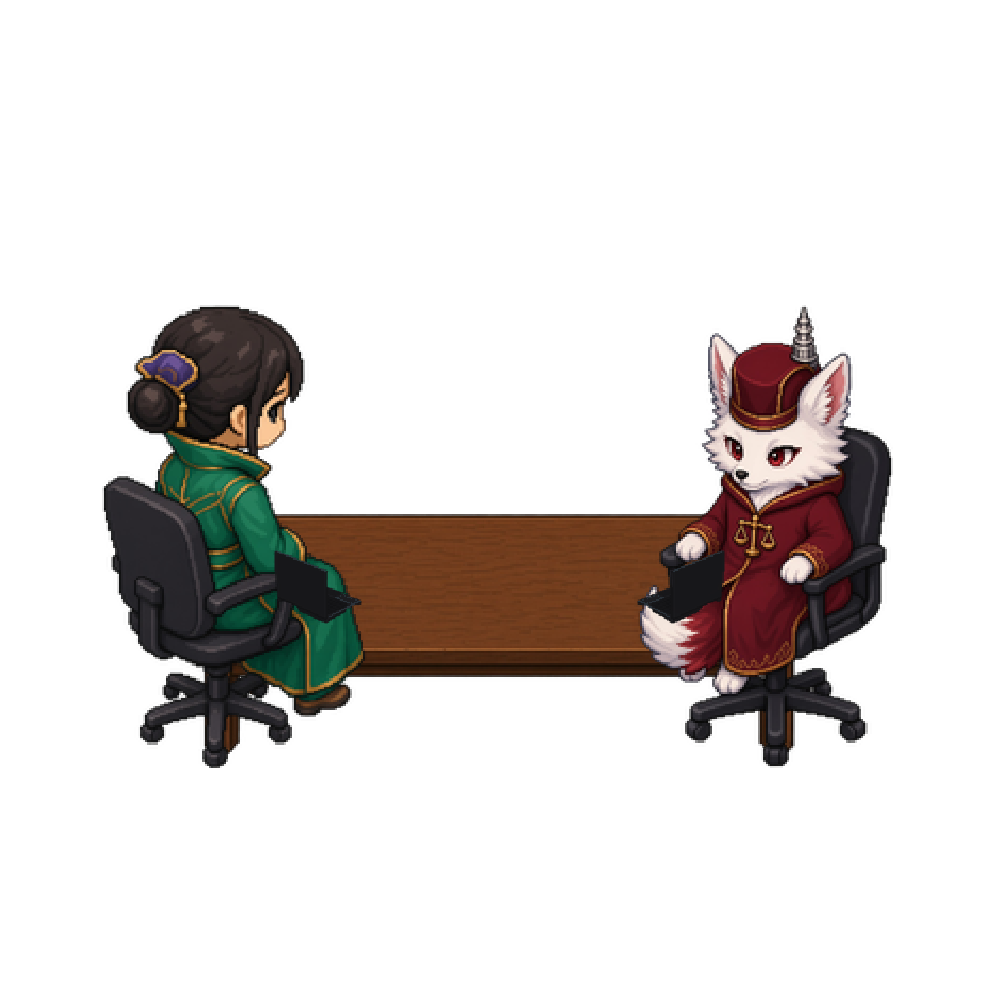
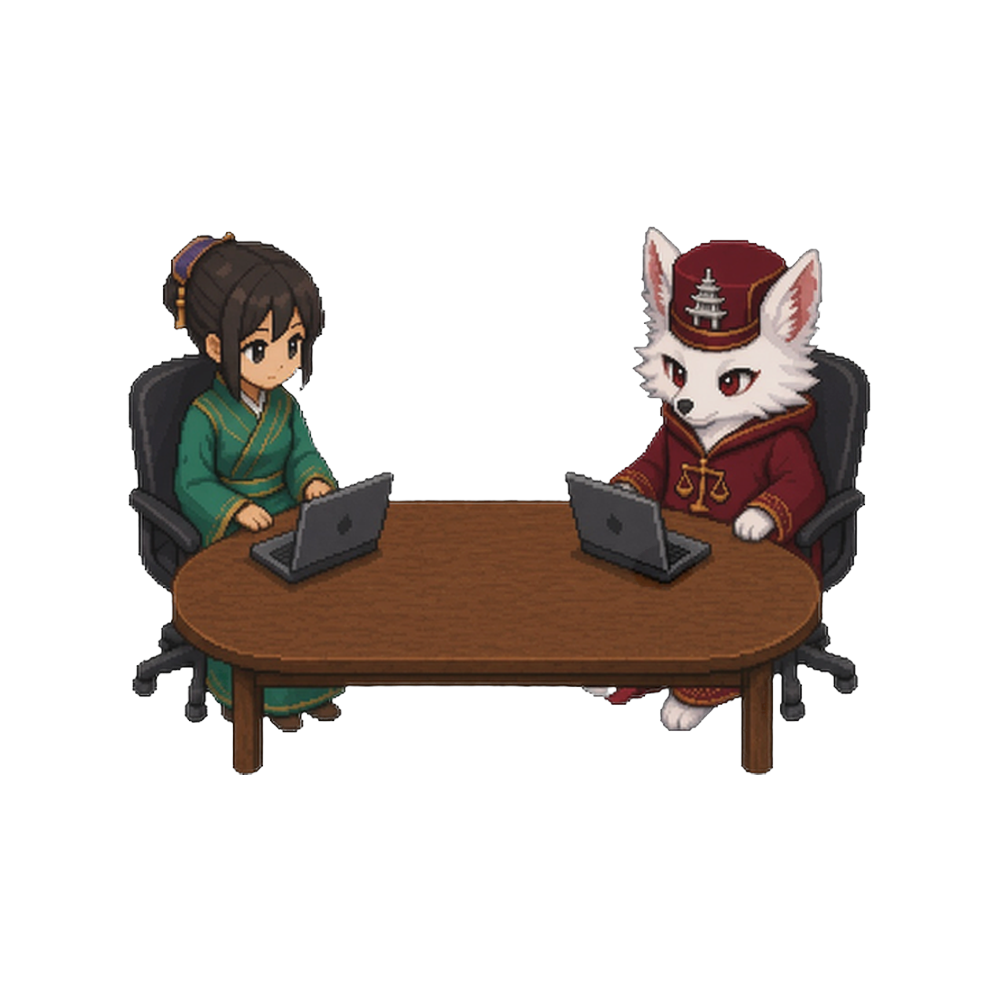
pixel map: restore 抉擇塔+磁鐵 vignettes to dba2641 (undo broken rebuild)
HEAD had wrong rectangular/stacked layers; brand vignette-3 untouched.

Changed region(s): [[0.093, 0.217, 0.899, 0.775]]

diff --git a/ai-office-pixel-map.html b/ai-office-pixel-map.html
@@ -645,7 +645,7 @@
     const FURN_V = 'furn31';
     const SPRITE_V = 'meet13';
     const SEAT_V = 'seat12';
-    const VIGNETTE_V = 'vig10'; /* clean oval only: sprite recompose v2+v4, old table layers gone */
+    const VIGNETTE_V = 'vig11'; /* clean oval only: sprite recompose v2+v4, old table layers gone */
 
 
     function checker(tint) {
